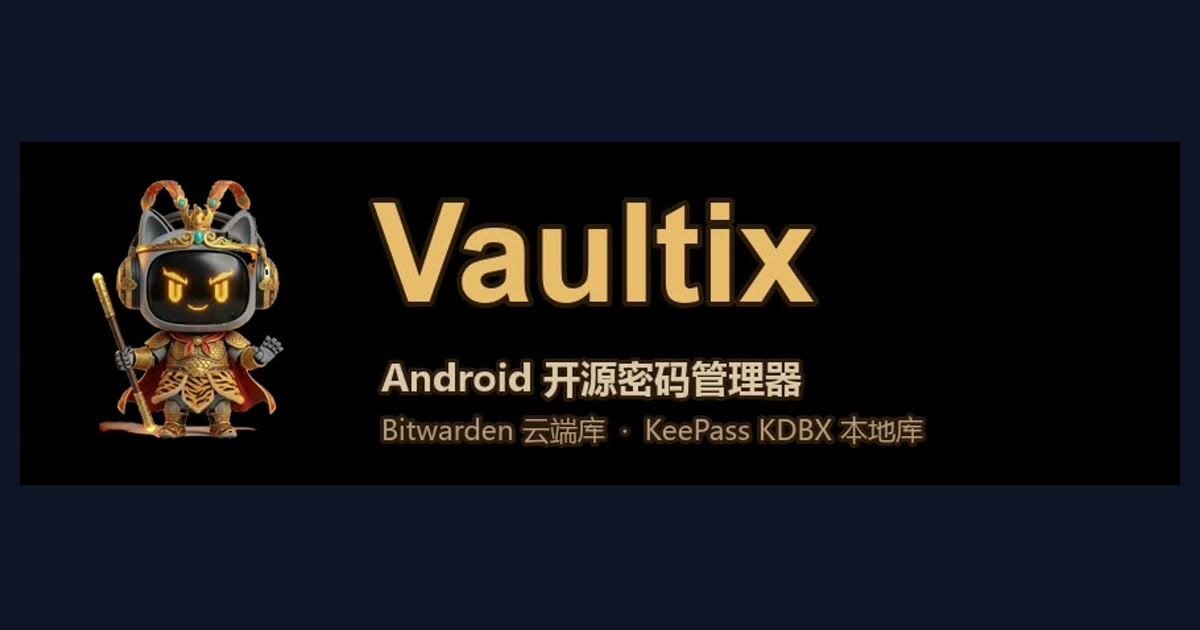
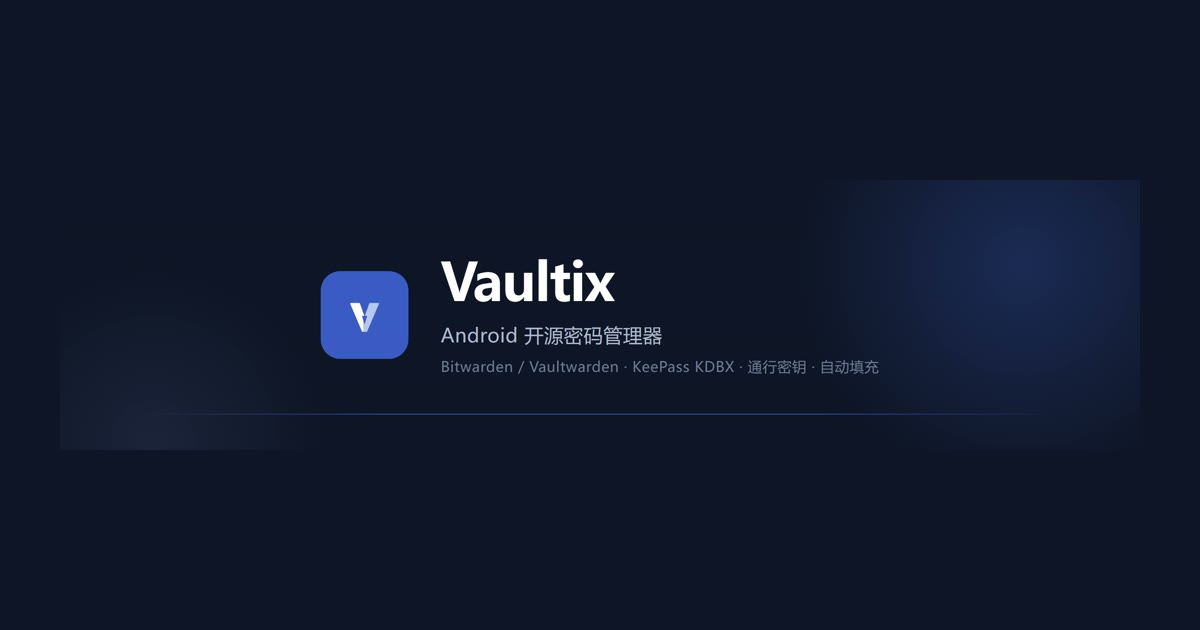
docs: 换掉 2.68MB 的动画横幅，README 补官网入口与真机截图
原 Docs/assets/vaultix-banner.webp 是 36 帧 / 2.68MB 的动画 WebP（国风金甲吉祥物 + 黄描边标题 + 白底），在 README 里边加载边播 25fps 必然掉帧，配色也与 App 的低饱和蓝 #3B5BC4 + 折纸 V 完全不是一个语言。换成静态品牌横幅：深墨底、折纸 V 直接取自 ic_launcher_foreground 的矢量、webp q92 后 16KB（减少 174 倍），同时重新生成官网 1600px 版与 1200x630 og 卡。README 顶部补官网/下载/预览入口，新增界面区引用三张已脱敏真机截图。

diff --git a/site/index.html b/site/index.html
@@ -476,7 +476,7 @@
     <div class="wrap cta-inner">
       <div class="reveal"><h2>剩下的，<br />在仓库里。</h2><p>代码、设计取舍、每一次修复的来龙去脉，都在那儿。GPL-3.0，欢迎一起把它磨得更好。</p>
         <a class="btn btn-night" href="https://github.com/Chaniug/Vaultix" target="_blank" rel="noopener">打开 GitHub</a></div>
-      <div class="reveal"><img src="assets/vaultix-banner.jpg" alt="Vaultix 品牌横幅：吉祥物与产品名" loading="lazy" /></div>
+      <div class="reveal"><img src="assets/vaultix-banner.webp" alt="Vaultix 品牌横幅" loading="lazy" /></div>
     </div>
   </section>
 </main>
